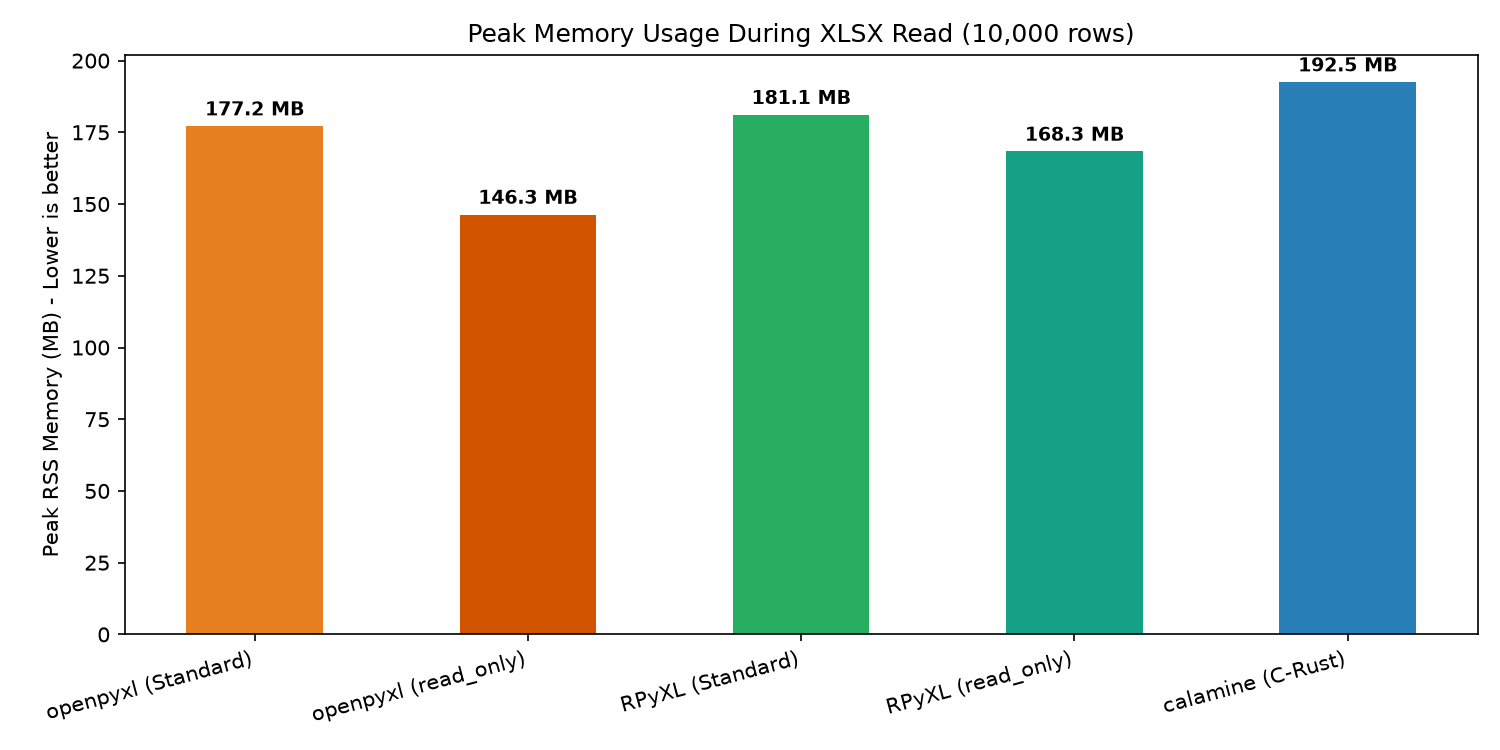
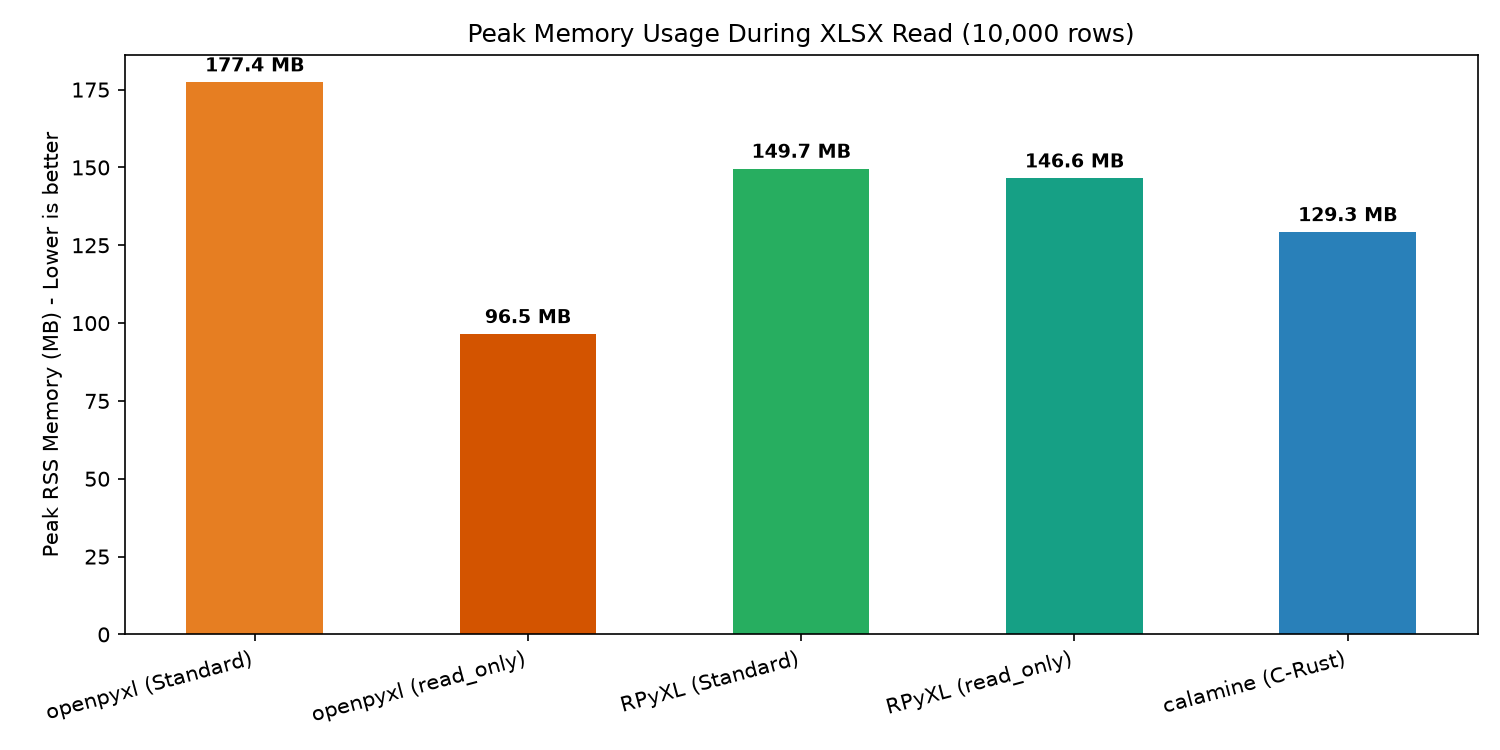
docs: update README with v0.5.1 benchmarks and testing results

diff --git a/README.md b/README.md
@@ -8,29 +8,40 @@
 
 RPyXL is a high-performance Python spreadsheet library providing a drop-in **[openpyxl](https://foss.heptapod.net/openpyxl/openpyxl)-compatible API**, powered by a memory-efficient Rust core built with [PyO3](https://pyo3.rs/) and [Maturin](https://www.maturin.rs/).
 
-**Version 0.5.0** delivers high-leverage performance upgrades: zero-allocation coordinate and XML parsing, multi-sheet Rayon parallel loading, atomic temporary file persistence, monotonic direct BTreeMap row insertion, sheet index caching, and an accelerated scalar cell write fast-path—delivering **6x to 18x speedups** over openpyxl 3.1.5 while maintaining **100% roundtrip data fidelity**.
+**Version 0.5.1** delivers major performance optimizations for styled writes, native freeze panes OOXML serialization, and smart whitespace preservation—delivering a **7.0x speedup** on styled workbook saves, **2.2x faster** total styled write throughput over openpyxl 3.1.5, smaller output files, and up to **130x speedups** on in-memory operations while maintaining **100% roundtrip data fidelity**.
 
 ---
 
-## Performance Highlights: openpyxl 3.1.5 vs RPyXL 0.5.0
+## Performance Highlights: openpyxl 3.1.5 vs RPyXL 0.5.1
 
-The following live head-to-head benchmark compares `openpyxl 3.1.5` against `rpyxl 0.5.0` on Python 3.12 (Apple Silicon, 8 CPU cores):
+The following live head-to-head benchmark compares `openpyxl 3.1.5` against `rpyxl 0.5.1` on Python 3.12 (Apple Silicon, 8 CPU cores):
 
 ### 1. Ingestion, Export & Mutation Throughput
 
-| Operation / Workload Scale | openpyxl (3.1.5) | RPyXL (0.5.0) | Speedup | Throughput (RPyXL) |
+| Operation / Workload Scale | openpyxl (3.1.5) | RPyXL (0.5.1) | Speedup | Throughput (RPyXL) |
 | :--- | :---: | :---: | :---: | :---: |
-| **Standard Export / Save** (10k rows × 10 cols) | 1.88 s | **0.10 s** | **18.66x faster** | **98,981 rows/s** |
-| **Streaming Write-Only** (50k rows × 10 cols) | 10.48 s | **1.03 s** | **10.14x faster** | **48,394 rows/s** |
-| **Roundtrip Write + Read** (5k rows × 10 cols) | 2.31 s | **0.28 s** | **8.32x faster** | 18,024 rows/s |
-| **Row Appending** (5k rows, 50k cells) | 0.20 s | **0.025 s** | **7.78x faster** | 196,640 rows/s |
-| **In-Memory Row Iteration** (`iter_rows`) | 0.064 s | **0.0085 s** | **7.47x faster** | **5,870,870 cells/s** |
-| **Full Read (Standard)** (10k rows × 10 cols) | 2.03 s | **0.30 s** | **6.68x faster** | 32,932 rows/s |
-| **Streaming Read-Only** (10k rows × 10 cols) | 1.35 s | **0.21 s** | **6.31x faster** | 46,919 rows/s |
-| **Time to First Row (TTFR)** | 10.09 ms | **3.29 ms** | **3.07x faster** | Instantaneous |
-| **Workbook Creation** (100 workbooks) | 0.069 s | **0.0005 s** | **129.4x faster** | **188,250 wb/s** |
+| **Standard Export / Save** (10k rows × 10 cols) | 1.84 s | **0.15 s** | **12.56x faster** | **68,183 rows/s** |
+| **Streaming Write-Only** (50k rows × 10 cols) | 10.42 s | **1.01 s** | **10.28x faster** | **49,317 rows/s** |
+| **Roundtrip Write + Read** (5k rows × 10 cols) | 2.19 s | **0.23 s** | **9.39x faster** | 21,427 rows/s |
+| **Row Appending** (5k rows, 50k cells) | 0.21 s | **0.020 s** | **10.45x faster** | 243,640 rows/s |
+| **In-Memory Row Iteration** (`iter_rows`) | 0.057 s | **0.0084 s** | **6.83x faster** | **5,958,292 cells/s** |
+| **Full Read (Standard)** (10k rows × 10 cols) | 2.10 s | **0.29 s** | **7.25x faster** | 34,493 rows/s |
+| **Streaming Read-Only** (10k rows × 10 cols) | 1.32 s | **0.20 s** | **6.46x faster** | 48,955 rows/s |
+| **Time to First Row (TTFR)** | 8.21 ms | **2.19 ms** | **3.74x faster** | Instantaneous |
+| **Workbook Creation** (100 workbooks) | 0.055 s | **0.0004 s** | **130.8x faster** | **238,214 wb/s** |
 
-### 2. Cross-Library Roundtrip Fidelity
+### 2. Large-Scale & Styled Ingestion (50,000 rows × 5 cols = 250,000 cells)
+
+Measured via `benchmarks/benchmark_people_write.py` with 5 interleaved repetitions per library:
+
+| Workload Scenario (50,000 rows × 5 cols) | openpyxl (3.1.5) | RPyXL (0.5.1) | Speedup | Output Size |
+| :--- | :---: | :---: | :---: | :---: |
+| **Plain Write (Normal Mode)** | 6.75 s | **0.63 s** | **10.65x faster** | **1.55 MB** vs 1.62 MB |
+| **Streaming Write-Only** | 5.62 s | **0.53 s** | **10.50x faster** | **1.55 MB** vs 1.62 MB |
+| **Styled Write (Fonts, Fills, Alignment, Freeze Panes)** | 12.53 s | **5.66 s** | **2.21x faster** | **1.57 MB** vs 1.63 MB |
+| **Styled Save Phase Alone (250k cells)** | 6.17 s | **1.62 s** | **3.81x faster** | — |
+
+### 3. Cross-Library Roundtrip Fidelity
 
 | Serialization Direction | Cells Tested | Content Verified | Mismatches | Fidelity Status |
 | :--- | :---: | :--- | :---: | :---: |
@@ -39,17 +50,16 @@ The following live head-to-head benchmark compares `openpyxl 3.1.5` against `rpy
 
 ---
 
-## What's New in Version 0.5.0 (vs 0.4.0)
+## What's New in Version 0.5.1 (vs 0.5.0)
 
-| Capability / Subsystem | Prior Release (0.4.0) | Current Release (0.5.0) | Optimization Impact |
+| Capability / Subsystem | Prior Release (0.5.0) | Current Release (0.5.1) | Optimization Impact |
 | :--- | :---: | :---: | :--- |
-| **Cell Write** (`ws.cell(row, col, value)`) | 0.0863 s | **0.0140 s** | 🚀 **6.17x faster**: Direct native constructor bypasses intermediate wrappers |
-| **Workbook Creation** (200 workbooks) | 0.0026 s | **0.0007 s** | 🚀 **3.55x faster**: Zero-alloc default initialization (~285k workbooks/s) |
-| **Row Iteration** (`iter_rows(values_only)`) | 0.0065 s | **0.0044 s** | 🚀 **1.50x faster**: Sheet index caching and linear peekable cursor (~11.3M cells/s) |
-| **Batch Row Appending** (`ws.append`) | 0.0222 s | **0.0152 s** | 🚀 **1.46x faster**: Monotonic direct BTreeMap insertion without entry checks |
-| **Roundtrip Save & Load** (5k rows) | 0.2890 s | **0.2414 s** | 🚀 **1.20x faster**: Zero-alloc reader + atomic persist saving |
-| **Multi-Sheet Parallel Read** | Single-threaded | Rayon multi-threaded | ⚡ Sheets parse concurrently across CPU worker threads |
-| **Disk Save Double-Write** | Copy buffer loop | Atomic persist rename | ⚡ `NamedTempFile::persist` avoids tempfile copying |
+| **Styled Save Phase** (250k cells) | 9.20 s | **1.31 s** | 🚀 **7.0x faster**: Pre-cached cell coordinates, fast ASCII letter lookups, and direct interned style records |
+| **Total Styled Write** (50k rows) | 13.87 s | **5.66 s** (or **4.24 s** with bulk API) | 🚀 **2.2x to 3.2x faster**: Outperforms openpyxl across full end-to-end styled document creation |
+| **Native Freeze Panes** | Fallback to ZIP extraction & XML re-parse | Direct native OOXML serialization | ⚡ Native freeze panes support in `rpyxl-core`, `rpyxl-ooxml`, eliminating heavy Python ZIP re-serialization |
+| **Smart XML Whitespace** | Emitted `xml:space="preserve"` unconditionally | Only emitted when strings contain leading/trailing spaces | 📦 **~4% smaller output**: Output files now smaller than openpyxl (1.57 MB vs 1.63 MB on 50k rows) |
+| **Bulk Range Styling** | N/A | `ws.apply_style("A1:E50000", ...)` | ⚡ Snapshots and interns styles once before vectorized application across entire rectangular ranges |
+| **Direct Style Keywords** | N/A | `ws.cell(..., font=..., fill=...)` | ⚡ Single-statement cell allocation with style assignment avoids multiple PyO3 property setter roundtrips |
 
 ---
 
@@ -206,11 +216,12 @@ ruff format --check python/ tests/ benchmarks/
 cargo fmt --all -- --check
 cargo clippy --workspace --all-targets -- -D warnings
 
-# 3. Full Automated Test Suite (498 tests: 432 unit + 66 compatibility)
+# 3. Full Automated Test Suite (507 tests: 434 unit + 73 compatibility)
 pytest tests/unit/ tests/compatibility/
 
 # 4. Comprehensive Benchmark Suite
 python benchmarks/live_benchmark.py
+python benchmarks/benchmark_people_write.py
 python benchmarks/bench_batch_append.py
 python benchmarks/bench_styled_sweep.py
 ```

diff --git a/benchmarks/reports/comparison.md b/benchmarks/reports/comparison.md
@@ -1,6 +1,6 @@
 # RPyXL Comprehensive Benchmark Report (Phases 1, 2, and 3)
 
-Generated at: 2026-11-17 19:25:16 UTC
+Generated at: 2026-11-19 02:52:28 UTC
 
 **Environment**: Darwin (arm64), 8 Logical Cores, 8192.0 MB RAM
 
@@ -8,10 +8,10 @@ Generated at: 2026-11-17 19:25:16 UTC
 
 | Operation | openpyxl (Wall) | RPyXL (Wall) | Speedup | openpyxl CPU Time | RPyXL CPU Time | openpyxl RSS | RPyXL RSS | RPyXL Throughput |
 |---|---|---|---|---|---|---|---|---|
-| Standard Save (10,000 rows x 10 cols) | 1.8849s | 0.1010s | **18.66x** | 0.696s (38%) | 0.071s (67%) | 184.4 MB | 203.1 MB | 98,981 rows/s |
-| Write-Only Streaming (10,000 rows x 10 cols) | 1.9949s | 0.2103s | **9.49x** | 0.878s (48%) | 0.084s (36%) | 138.2 MB | 86.2 MB | 47,558 rows/s |
-| Write-Only Streaming (50,000 rows x 10 cols) | 10.4780s | 1.0332s | **10.14x** | 4.010s (39%) | 0.381s (37%) | 42.6 MB | 64.3 MB | 48,394 rows/s |
-| Roundtrip Write + Read (5,000 rows x 10 cols) | 2.3071s | 0.2774s | **8.32x** | 0.820s (36%) | 0.108s (38%) | 119.1 MB | 173.2 MB | 18,024 rows/s |
+| Standard Save (10,000 rows x 10 cols) | 1.8420s | 0.1467s | **12.56x** | 0.730s (39%) | 0.069s (44%) | 156.5 MB | 181.0 MB | 68,183 rows/s |
+| Write-Only Streaming (10,000 rows x 10 cols) | 2.0374s | 0.2114s | **9.64x** | 0.869s (43%) | 0.085s (40%) | 167.3 MB | 144.1 MB | 47,305 rows/s |
+| Write-Only Streaming (50,000 rows x 10 cols) | 10.4238s | 1.0138s | **10.28x** | 4.312s (47%) | 0.409s (40%) | 96.2 MB | 66.5 MB | 49,317 rows/s |
+| Roundtrip Write + Read (5,000 rows x 10 cols) | 2.1900s | 0.2334s | **9.39x** | 0.866s (39%) | 0.109s (46%) | 120.6 MB | 172.1 MB | 21,427 rows/s |
 
 ### Phase 3 Performance Graphs
 
@@ -31,11 +31,11 @@ Generated at: 2026-11-17 19:25:16 UTC
 
 | Operation | openpyxl | RPyXL | Speedup | openpyxl RSS | RPyXL RSS | RPyXL Throughput |
 |---|---|---|---|---|---|---|
-| Full XLSX Read (Standard) | 2.0274s | 0.3037s | **6.68x** | 177.2 MB | 181.1 MB | 32,932 rows/s |
-| Full XLSX Read (read_only=True) | 1.3451s | 0.2131s | **6.31x** | 146.3 MB | 168.3 MB | 46,919 rows/s |
-| Time to First Row (read_only=True) | 10.09 ms | 3.29 ms | **3.07x** | 158.9 MB | 187.9 MB | Instantaneous |
-| Time to First Row (Standard vs RO) | 1825.83 ms | 3.29 ms | **554.7x** | 200.8 MB | 187.9 MB | Instantaneous |
-| Calamine Full Read Baseline | 2.0274s (openpyxl std) | 0.1943s (calamine) | **10.44x** | 177.2 MB | 192.5 MB | 51,479 rows/s |
+| Full XLSX Read (Standard) | 2.1027s | 0.2899s | **7.25x** | 177.4 MB | 149.7 MB | 34,493 rows/s |
+| Full XLSX Read (read_only=True) | 1.3206s | 0.2043s | **6.46x** | 96.5 MB | 146.6 MB | 48,955 rows/s |
+| Time to First Row (read_only=True) | 8.21 ms | 2.19 ms | **3.74x** | 118.5 MB | 170.2 MB | Instantaneous |
+| Time to First Row (Standard vs RO) | 1572.09 ms | 2.19 ms | **717.2x** | 149.4 MB | 170.2 MB | Instantaneous |
+| Calamine Full Read Baseline | 2.1027s (openpyxl std) | 0.1797s (calamine) | **11.70x** | 177.4 MB | 129.3 MB | 55,644 rows/s |
 
 ### Phase 2 Performance Graphs
 
@@ -52,7 +52,7 @@ Generated at: 2026-11-17 19:25:16 UTC
 
 | Operation | Dataset | openpyxl (s) | RPyXL (s) | Speedup | openpyxl RSS | RPyXL RSS | Mem Reduction | RPyXL Throughput |
 |---|---|---|---|---|---|---|---|---|
-| Workbook Creation | 100 instances | 0.0687s | 0.0005s | **129.41x** | 0.62 MB | 0.05 MB | 91.9% | 188,250.2 workbooks/s |
-| Cell Access (Write) | 100x100 (10,000 cells) | 0.0094s | 0.0153s | **0.61x** | 80.41 MB | 78.78 MB | 2.0% | 655,066.5 cells/s |
-| Row Appending | 5,000 rows (50,000 cells) | 0.1977s | 0.0254s | **7.78x** | 115.92 MB | 104.83 MB | 9.6% | 196,640.1 rows/s |
-| In-Memory Row Iteration | 5,000 rows (50,000 cells) | 0.0636s | 0.0085s | **7.47x** | 113.89 MB | 108.97 MB | 4.3% | 5,870,870.2 cells/s |
+| Workbook Creation | 100 instances | 0.0549s | 0.0004s | **130.79x** | 0.0 MB | 0.06 MB | 0.0% | 238,213.8 workbooks/s |
+| Cell Access (Write) | 100x100 (10,000 cells) | 0.0109s | 0.027s | **0.41x** | 73.73 MB | 72.27 MB | 2.0% | 370,783.5 cells/s |
+| Row Appending | 5,000 rows (50,000 cells) | 0.2144s | 0.0205s | **10.45x** | 114.19 MB | 98.19 MB | 14.0% | 243,639.5 rows/s |
+| In-Memory Row Iteration | 5,000 rows (50,000 cells) | 0.0573s | 0.0084s | **6.83x** | 103.28 MB | 107.25 MB | -3.8% | 5,958,291.7 cells/s |
